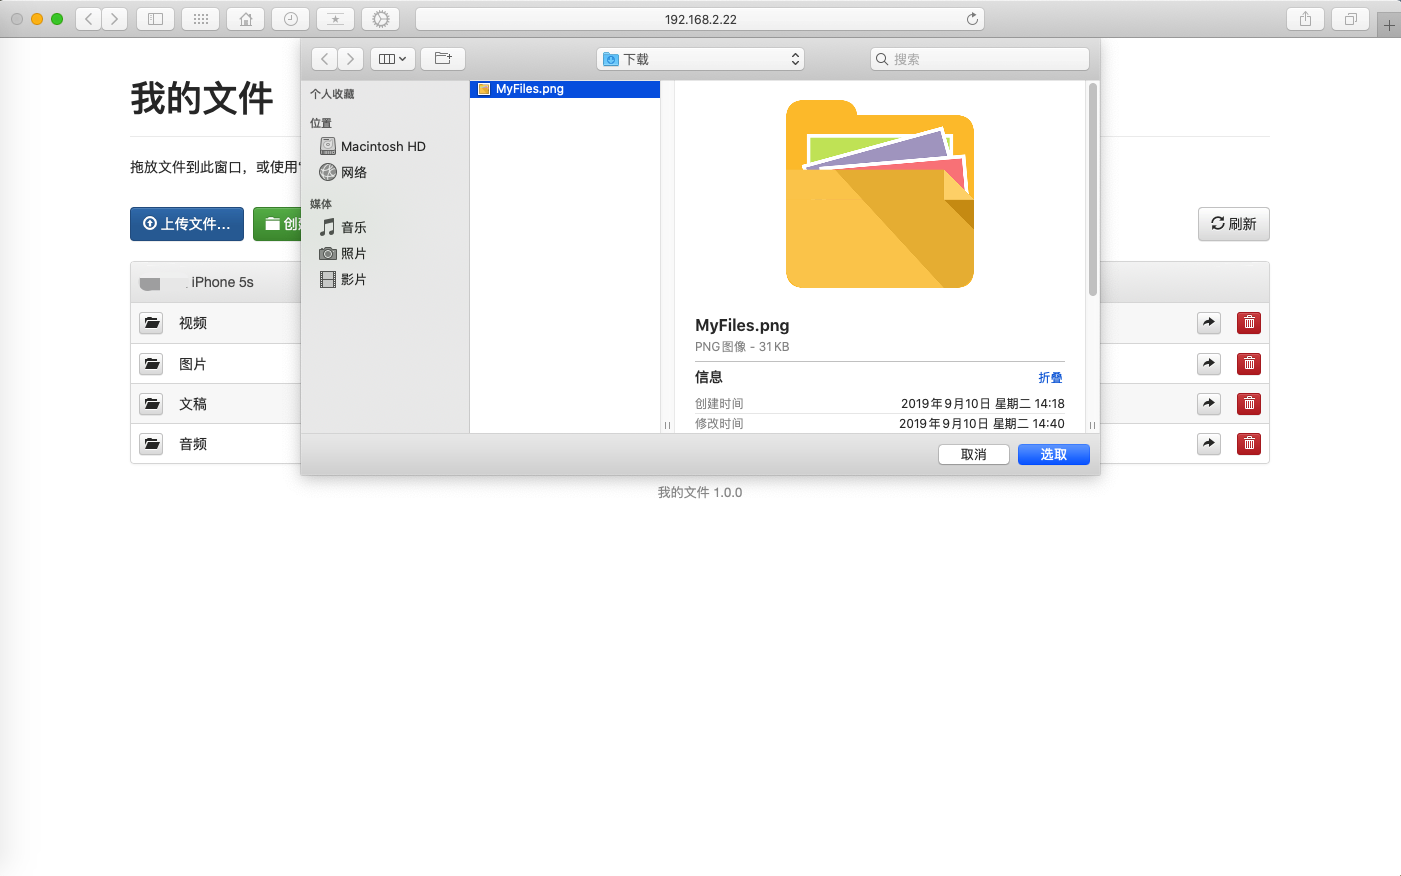
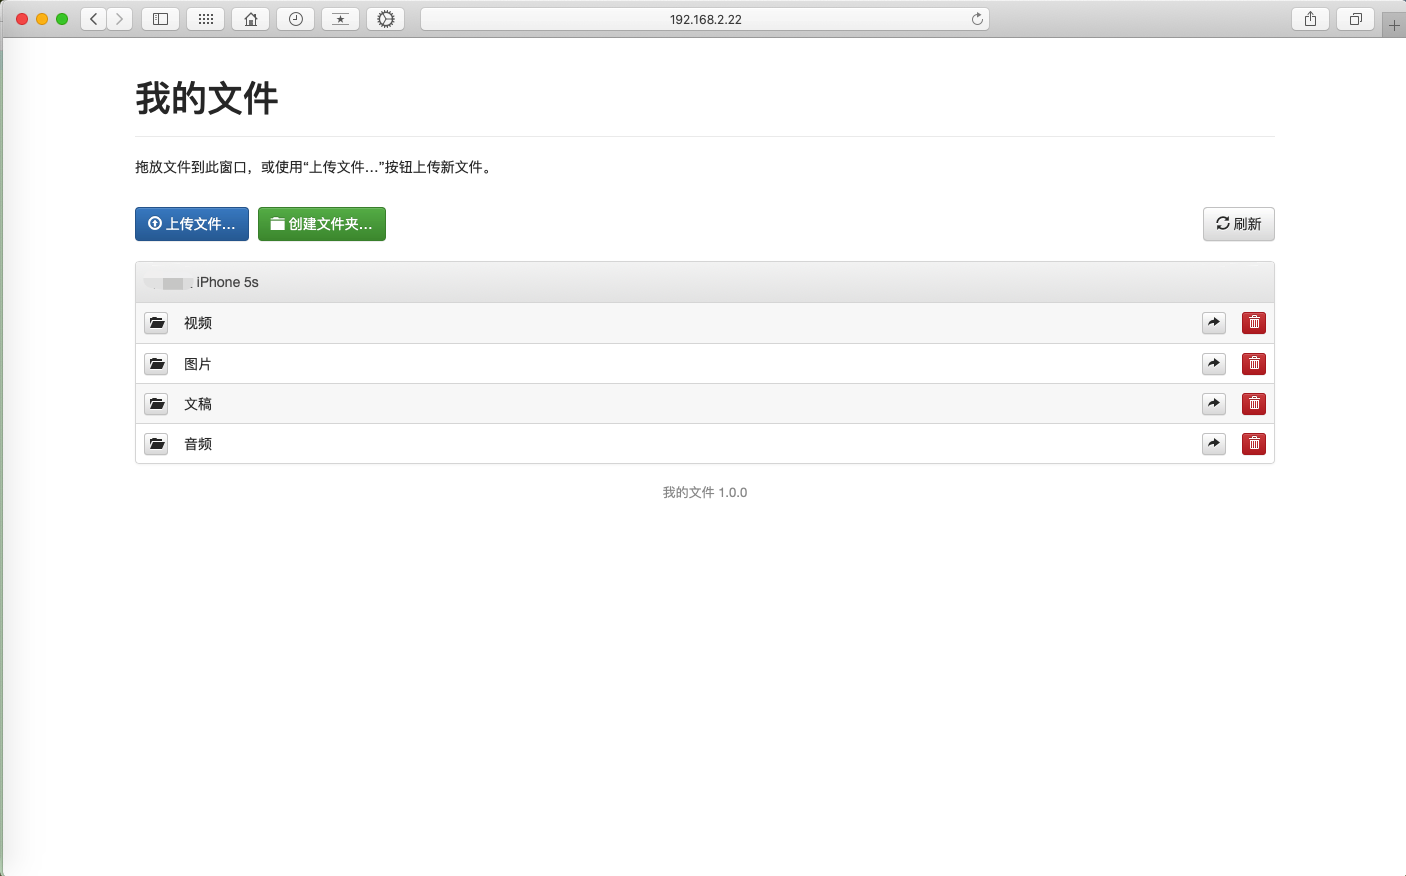
修改使用指南

Changed region(s): [[0.0, 0.0, 0.798, 0.5856], [0.0921, 0.3082, 0.1842, 0.524], [0.8594, 0.2466, 0.8901, 0.2774]]

diff --git a/guide/index.html b/guide/index.html
@@ -900,6 +900,15 @@ lang=EN-US><o:p></o:p></span></span></p>
 <p class=MsoNormal style='line-height:12.0pt'><span lang=EN-US
 style='font-family:楷体;mso-bidi-font-family:"Yuppy SC"'><o:p>&nbsp;</o:p></span></p>
 
+<p class=MsoNormal align=center style='text-align:center;line-height:12.0pt'><span
+lang=EN-US style='font-family:楷体;mso-bidi-font-family:"Yuppy SC";mso-no-proof:
+yes'><![if !vml]><img width=50% height=auto
+src="image01.jpeg" v:shapes="图片_x0020_4"><![endif]></span><span
+lang=EN-US style='font-family:楷体;mso-bidi-font-family:"Yuppy SC"'><o:p></o:p></span></p>
+
+<p class=MsoNormal style='line-height:12.0pt'><span lang=EN-US
+style='font-family:楷体;mso-bidi-font-family:"Yuppy SC"'><o:p>&nbsp;</o:p></span></p>
+
 <p class=MsoNormal style='line-height:12.0pt'><span lang=EN-US
 style='font-family:楷体;mso-bidi-font-family:"Yuppy SC"'>3. </span><span
 style='font-family:楷体;mso-bidi-font-family:"Yuppy SC"'>在电脑浏览器中输入<span lang=EN-US>Wifi</span>传输爷们中指定的IP地址，打开文件传输页面。<span
@@ -910,31 +919,8 @@ style='font-family:楷体;mso-bidi-font-family:"Yuppy SC"'><o:p>&nbsp;</o:p></sp
 
 <p class=MsoNormal align=center style='text-align:center;line-height:12.0pt'><span
 lang=EN-US style='font-family:楷体;mso-bidi-font-family:"Yuppy SC";mso-no-proof:
-yes'><!--[if gte vml 1]><v:shapetype id="_x0000_t75" coordsize="21600,21600"
- o:spt="75" o:preferrelative="t" path="m@4@5l@4@11@9@11@9@5xe" filled="f"
- stroked="f">
- <v:stroke joinstyle="miter"/>
- <v:formulas>
-  <v:f eqn="if lineDrawn pixelLineWidth 0"/>
-  <v:f eqn="sum @0 1 0"/>
-  <v:f eqn="sum 0 0 @1"/>
-  <v:f eqn="prod @2 1 2"/>
-  <v:f eqn="prod @3 21600 pixelWidth"/>
-  <v:f eqn="prod @3 21600 pixelHeight"/>
-  <v:f eqn="sum @0 0 1"/>
-  <v:f eqn="prod @6 1 2"/>
-  <v:f eqn="prod @7 21600 pixelWidth"/>
-  <v:f eqn="sum @8 21600 0"/>
-  <v:f eqn="prod @7 21600 pixelHeight"/>
-  <v:f eqn="sum @10 21600 0"/>
- </v:formulas>
- <v:path o:extrusionok="f" gradientshapeok="t" o:connecttype="rect"/>
- <o:lock v:ext="edit" aspectratio="t"/>
-</v:shapetype><v:shape id="图片_x0020_4" o:spid="_x0000_i1028" type="#_x0000_t75"
- style='width:523pt;height:326pt;visibility:visible;mso-wrap-style:square'>
- <v:imagedata src="image001.png" o:title=""/>
-</v:shape><![endif]--><![if !vml]><img width=50% height=auto
-src="image01.jpeg" v:shapes="图片_x0020_4"><![endif]></span><span
+yes'><![if !vml]><img width=50% height=auto
+src="image02.png" v:shapes="图片_x0020_4"><![endif]></span><span
 lang=EN-US style='font-family:楷体;mso-bidi-font-family:"Yuppy SC"'><o:p></o:p></span></p>
 
 <span lang=EN-US style='font-size:14.0pt;font-family:楷体;mso-bidi-font-family:
@@ -954,7 +940,7 @@ style='font-family:楷体;mso-bidi-font-family:"Yuppy SC"'><o:p>&nbsp;</o:p></sp
 
 <p class=MsoNormal style='line-height:12.0pt'><span lang=EN-US
 style='font-family:楷体;mso-bidi-font-family:"Yuppy SC"'>1. </span><span
-    style='font-family:楷体;mso-bidi-font-family:"Yuppy SC"'>在电脑浏览器文件传输页面中，点击“<span lang=EN-US>Upload Files...</span>”按钮，选择要上传的文件。<span
+    style='font-family:楷体;mso-bidi-font-family:"Yuppy SC"'>在电脑浏览器文件传输页面中，点击“<span lang=EN-US>上传文件...</span>”按钮，选择要上传的文件。<span
 lang=EN-US><o:p></o:p></span></span></p>
 
 <p class=MsoNormal style='line-height:12.0pt'><span lang=EN-US
@@ -962,11 +948,8 @@ style='font-family:楷体;mso-bidi-font-family:"Yuppy SC"'><o:p>&nbsp;</o:p></sp
 
 <p class=MsoNormal align=center style='text-align:center;line-height:12.0pt'><span
 lang=EN-US style='font-family:楷体;mso-bidi-font-family:"Yuppy SC";mso-no-proof:
-yes'><!--[if gte vml 1]><v:shape id="图片_x0020_6" o:spid="_x0000_i1027" type="#_x0000_t75"
- style='width:523pt;height:327pt;visibility:visible;mso-wrap-style:square'>
- <v:imagedata src="image002.png" o:title=""/>
-</v:shape><![endif]--><![if !vml]><img width=100% height=auto
-src="image02.png" v:shapes="图片_x0020_6"><![endif]></span><span
+yes'><![if !vml]><img width=100% height=auto
+src="image03.png" v:shapes="图片_x0020_6"><![endif]></span><span
 lang=EN-US style='font-family:楷体;mso-bidi-font-family:"Yuppy SC"'><o:p></o:p></span></p>
 
 <span lang=EN-US style='font-size:10.5pt;mso-bidi-font-size:12.0pt;font-family:
@@ -989,7 +972,7 @@ style='font-family:楷体;mso-bidi-font-family:"Yuppy SC"'><o:p>&nbsp;</o:p></sp
 
 <p class=MsoNormal style='line-height:12.0pt'><span lang=EN-US
 style='font-family:楷体;mso-bidi-font-family:"Yuppy SC"'>1. </span><span
-    style='font-family:楷体;mso-bidi-font-family:"Yuppy SC"'>在电脑浏览器文件传输页面中，点击“<span lang=EN-US>Create Folder...</span>”，在弹出的面板中输入文件夹名称，点击“<span lang=EN-US>Create Folder</span>”按钮创建文件夹。<span
+    style='font-family:楷体;mso-bidi-font-family:"Yuppy SC"'>在电脑浏览器文件传输页面中，点击“<span lang=EN-US>创建文件夹...</span>”，在弹出的面板中输入文件夹名称，点击“<span lang=EN-US>创建文件夹</span>”按钮创建文件夹。<span
 lang=EN-US><o:p></o:p></span></span></p>
 
 <p class=MsoNormal style='line-height:12.0pt'><span lang=EN-US
@@ -997,11 +980,8 @@ style='font-family:楷体;mso-bidi-font-family:"Yuppy SC"'><o:p>&nbsp;</o:p></sp
 
 <p class=MsoNormal align=center style='text-align:center;mso-pagination:widow-orphan'><span
 lang=EN-US style='font-family:楷体;mso-bidi-font-family:"Yuppy SC";mso-no-proof:
-yes'><!--[if gte vml 1]><v:shape id="图片_x0020_7" o:spid="_x0000_i1026" type="#_x0000_t75"
- style='width:524pt;height:326pt;visibility:visible;mso-wrap-style:square'>
- <v:imagedata src="image003.png" o:title=""/>
-</v:shape><![endif]--><![if !vml]><img width=100% height=auto
-src="image03.png" v:shapes="图片_x0020_7"><![endif]></span><span
+yes'><![if !vml]><img width=100% height=auto
+src="image04.png" v:shapes="图片_x0020_7"><![endif]></span><span
 lang=EN-US style='font-family:楷体;mso-bidi-font-family:"Yuppy SC"'><o:p></o:p></span></p>
 
 <p class=MsoNormal align=center style='text-align:center;mso-pagination:widow-orphan'><span
@@ -1024,18 +1004,15 @@ style='font-family:楷体;mso-bidi-font-family:"Yuppy SC"'><o:p>&nbsp;</o:p></sp
 
 <p class=MsoNormal style='line-height:12.0pt'><span lang=EN-US
 style='font-family:楷体;mso-bidi-font-family:"Yuppy SC"'>1. </span><span
-style='font-family:楷体;mso-bidi-font-family:"Yuppy SC"'>在电脑浏览器文件传输页面中，点击文件列表右侧的移动按钮，在弹出的面板中输入目标路径，点击“<span lang=EN-US>Move Item</span>”按钮进行移动。<span lang=EN-US><o:p></o:p></span></span></p>
+style='font-family:楷体;mso-bidi-font-family:"Yuppy SC"'>在电脑浏览器文件传输页面中，点击文件列表右侧的移动按钮，在弹出的面板中输入目标路径，点击“<span lang=EN-US>移动项目</span>”按钮进行移动。<span lang=EN-US><o:p></o:p></span></span></p>
 
 <p class=MsoNormal style='line-height:12.0pt'><span lang=EN-US
 style='font-family:楷体;mso-bidi-font-family:"Yuppy SC"'><o:p>&nbsp;</o:p></span></p>
 
 <p class=MsoNormal align=center style='text-align:center;line-height:12.0pt'><span
 lang=EN-US style='font-family:楷体;mso-bidi-font-family:"Yuppy SC";mso-no-proof:
-yes'><!--[if gte vml 1]><v:shape id="图片_x0020_8" o:spid="_x0000_i1025" type="#_x0000_t75"
- style='width:524pt;height:326pt;visibility:visible;mso-wrap-style:square'>
- <v:imagedata src="image004.png" o:title=""/>
-</v:shape><![endif]--><![if !vml]><img width=100% height=auto
-src="image04.png" v:shapes="图片_x0020_8"><![endif]></span><span
+yes'><![if !vml]><img width=100% height=auto
+src="image05.png" v:shapes="图片_x0020_8"><![endif]></span><span
 lang=EN-US style='font-family:楷体;mso-bidi-font-family:"Yuppy SC"'><o:p></o:p></span></p>
 
 <p class=MsoNormal align=center style='text-align:center;line-height:12.0pt'><span
